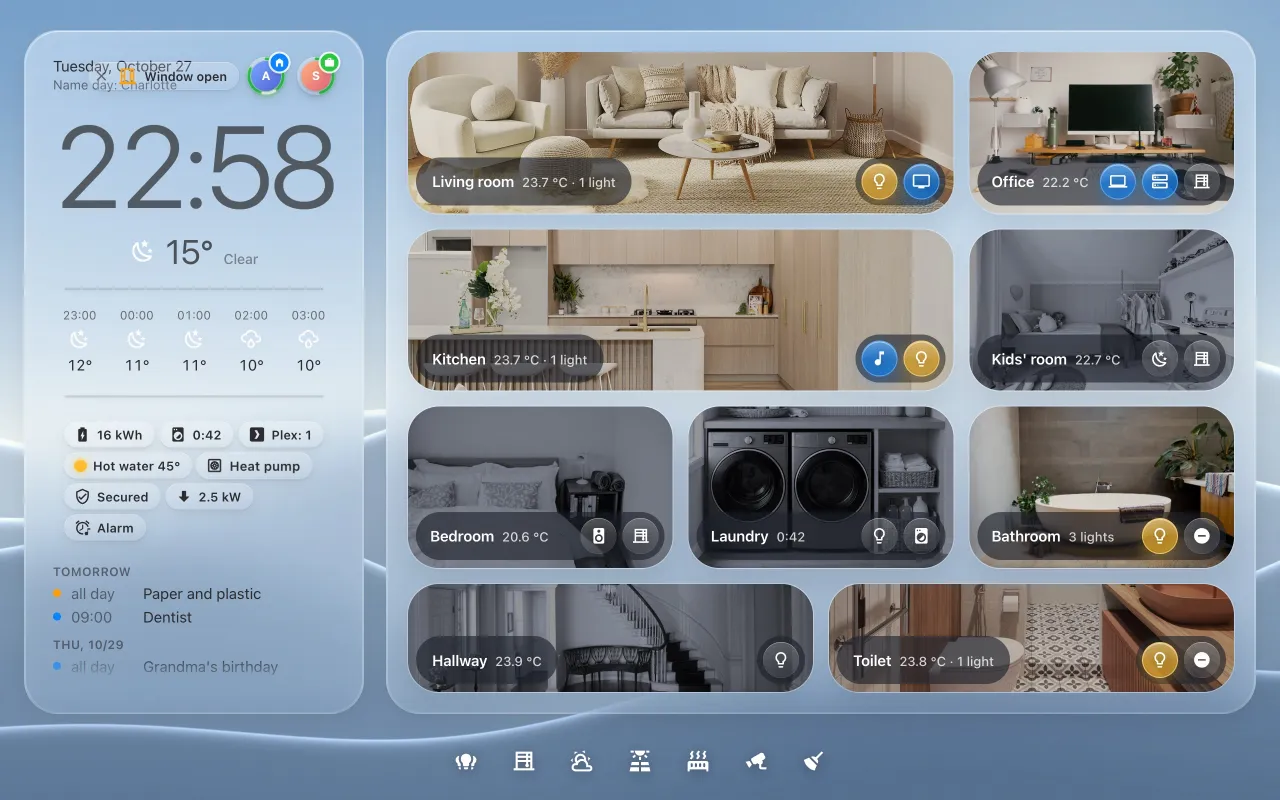
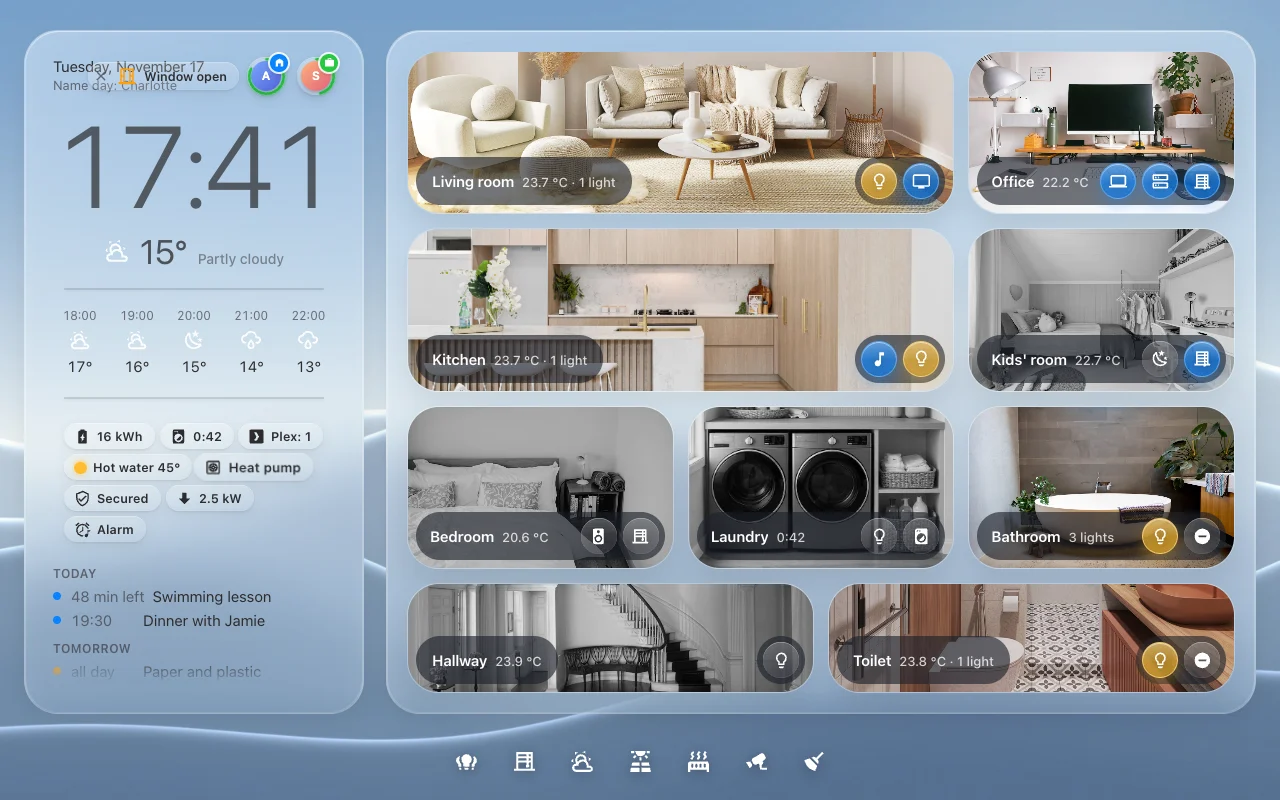
Dashboard: the side column's clock white again at night in the frosted and light looks; docs by day and night everywhere
- The frosted side colours (graphite) applied at night too: the night set
  doesn't name the clock's or the temperature's colour, so they stayed dark on
  the dark glass. Now by day only.
- Docs: the dashboard, the looks, the pop-up, the phone, the Studio and the
  camera's recording pictured again by day and by night.

diff --git a/src/cards/dashboard.ts b/src/cards/dashboard.ts
@@ -874,7 +874,9 @@ class GlassDashboard extends GlassElement<DashboardConfig> {
         ${sideDayVars}
         ${sideMonoVars}
       }
-      .area.side.frosted {
+      /* graphite by day only: at night the side column's white comes back (the night set doesn't
+         name the clock's or the temperature's colour, so the day's would stay) */
+      :host(:not([dark])) .area.side.frosted {
         ${sideFrostedVars}
       }
       :host([dark]) .area.side {

diff --git a/dist/glass-cards.js b/dist/glass-cards.js
@@ -38198,7 +38198,9 @@ Js.properties = { ...I.properties, _mode: { state: !0 } }, Js.styles = [
         ${Ad}
         ${ms}
       }
-      .area.side.frosted {
+      /* graphite by day only: at night the side column's white comes back (the night set doesn't
+         name the clock's or the temperature's colour, so the day's would stay) */
+      :host(:not([dark])) .area.side.frosted {
         ${Cd}
       }
       :host([dark]) .area.side {
